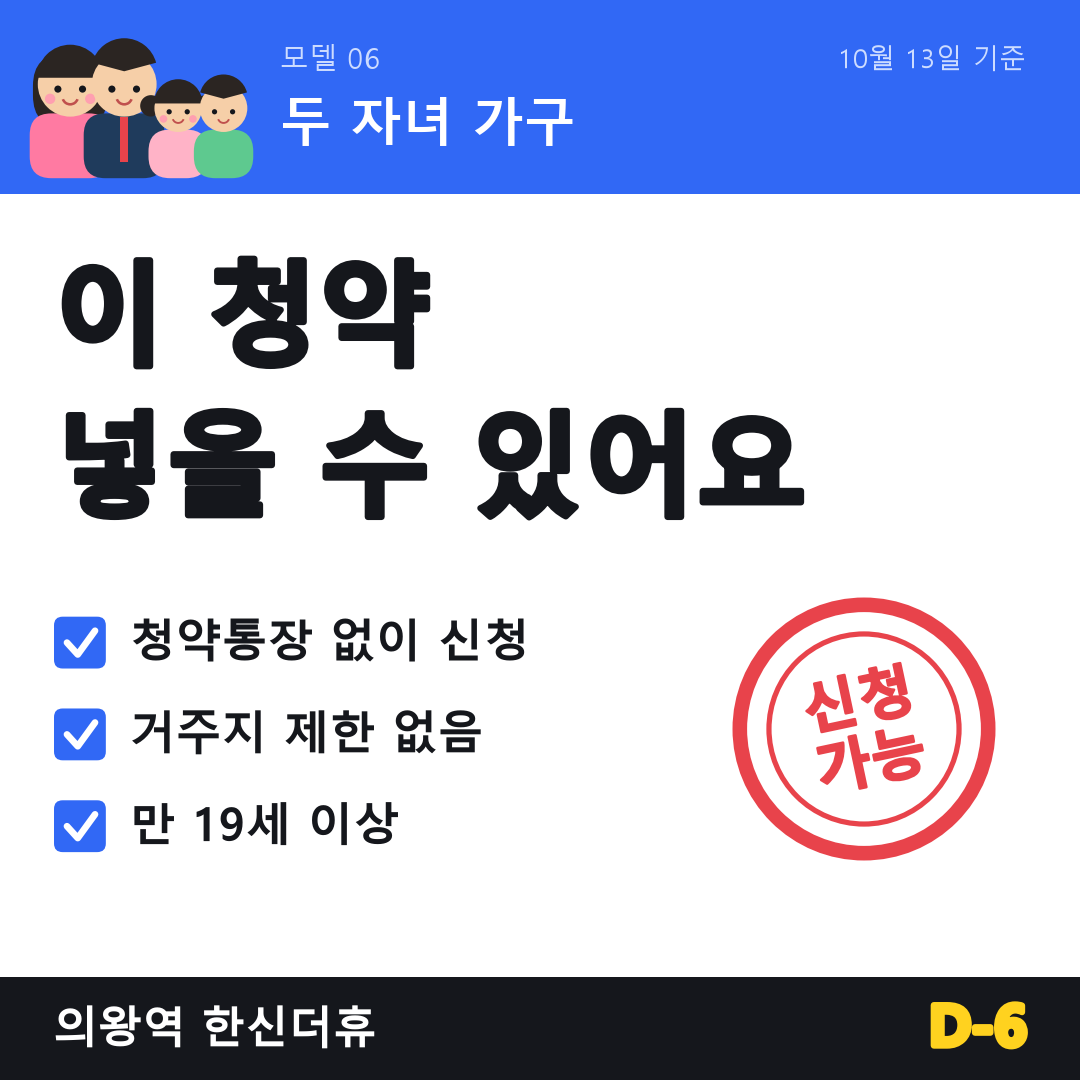
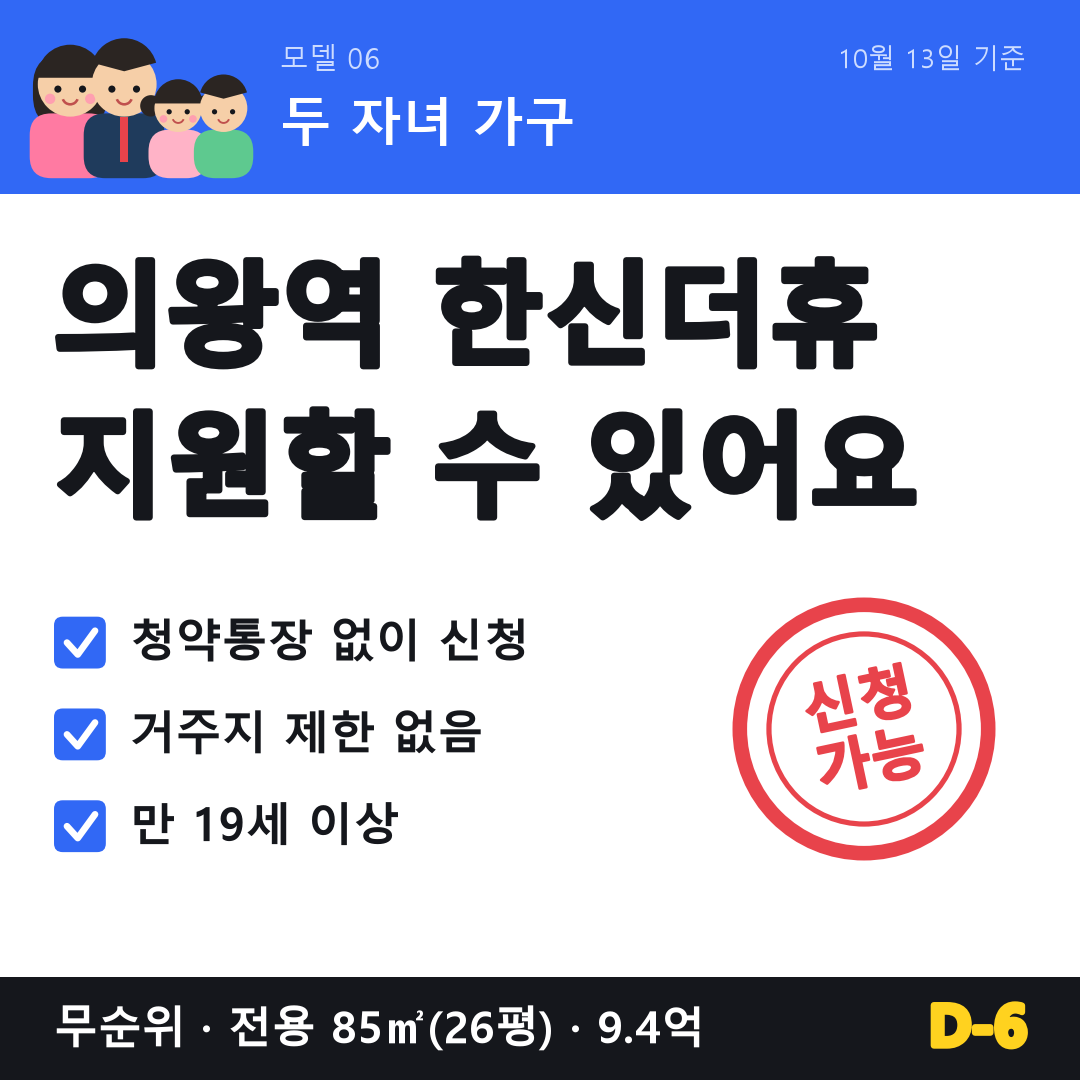
feat: 썸네일 큰 제목을 '단지명 + 지원할 수 있어요/확인해 보세요'로, 검은 띠에 유형·평수·분양가
- 썸네일 대표 공고를 제목·도입부와 같은 공고로 맞춤, 긴 단지명은 띄어쓰기 단위로 줄임
- 10/13 두 자녀 가구 원고 재발송

Changed region(s): [[0.0306, 0.2139, 0.8556, 0.4889], [0.0306, 0.9167, 0.5194, 0.9778], [0.55, 0.9167, 0.6722, 0.9778]]

diff --git a/src/thumbnail.py b/src/thumbnail.py
@@ -93,11 +93,24 @@ def _people(ax, icons: list[str], senior: bool) -> float:
     return x
 
 
+def short_name(name: str, limit: int = 16) -> str:
+    """카드 큰 제목용 단지명. 길면 띄어쓰기 단위로 앞쪽만 남긴다(단어 중간에서 자르지 않음)."""
+    if len(name) <= limit:
+        return name
+    kept = ""
+    for word in name.split():
+        if len(f"{kept} {word}".strip()) > limit:
+            break
+        kept = f"{kept} {word}".strip()
+    return kept or name[: limit - 1] + "…"
+
+
 def card_png(model_no: int, label: str, date_line: str, checks: list[str], stamp: str,
              name: str, dday: str, icons: list[str] = ("man",), senior: bool = False,
              verb: str = "지원할 수 있어요", facts: str = "") -> bytes | None:
-    """name 은 큰 제목 첫 줄(단지명), verb 는 둘째 줄, facts 는 검은 띠(유형·평수·분양가)."""
-    """1080×1080 카드. 글꼴이 없으면 None."""
+    """1080×1080 카드. 글꼴이 없으면 None.
+
+    name 은 큰 제목 첫 줄(단지명), verb 는 둘째 줄, facts 는 검은 띠(유형·평수·분양가)."""
     font = korean_font()
     if not font:
         return None
@@ -131,8 +144,8 @@ def card_png(model_no: int, label: str, date_line: str, checks: list[str], stamp
 
     # 큰 제목
     bold = 0 if heavy != font else 3
-    # 단지명은 길이가 제각각이라 폭에 맞춰 줄인다(write 가 처리). 너무 길면 뒤를 말줄임
-    title = name if len(name) <= 16 else name[:15] + "…"
+    # 단지명은 길이가 제각각이라 폭에 맞춰 줄인다(write 가 처리). 너무 길면 띄어쓰기 단위로 앞쪽만
+    title = short_name(name)
     write(0.05, 0.705, title, 54, INK, weight="heavy", family=heavy, thick=bold, limit=0.93)
     write(0.05, 0.565, verb, 54, INK, weight="heavy", family=heavy, thick=bold)
 
